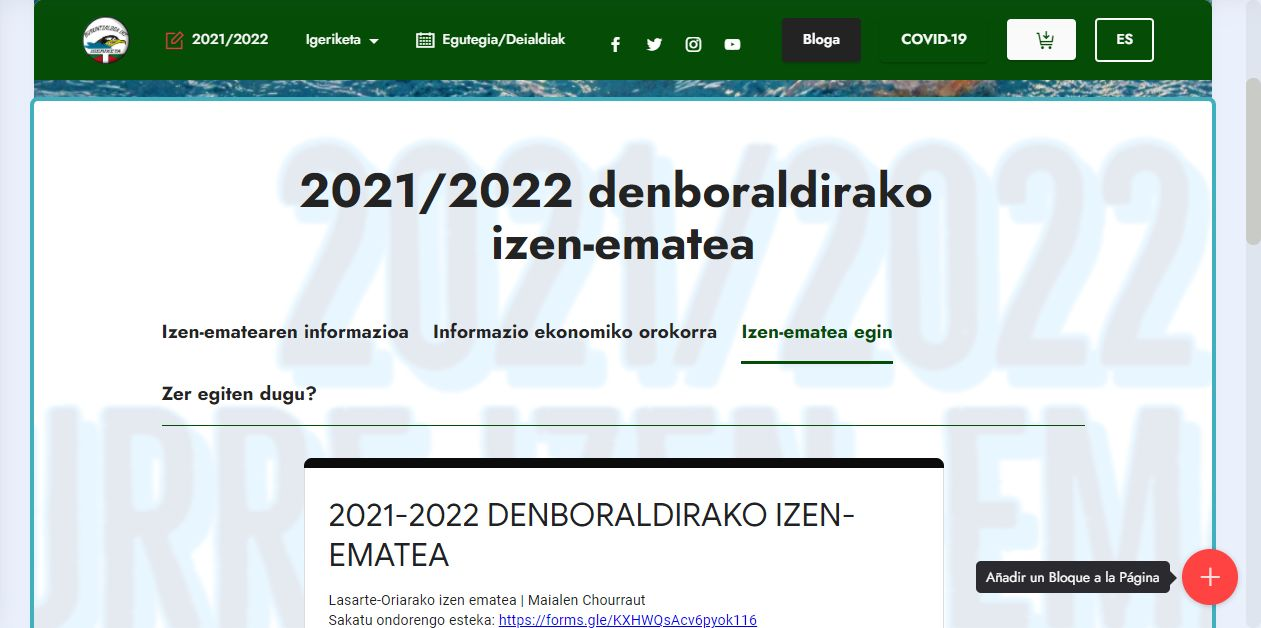
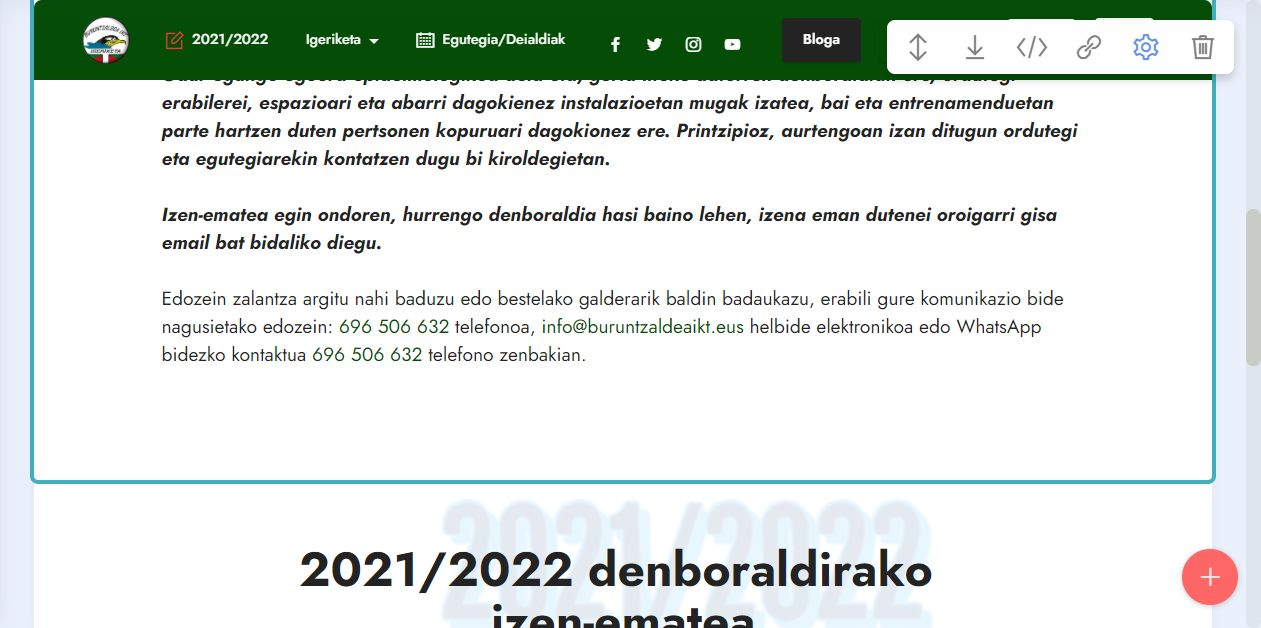
.

diff --git a/2122izenematea.html b/2122izenematea.html
@@ -113,26 +113,26 @@
     </div>
 </section>
 
-<section class="tabs content18 cid-svRpWT2be0" id="tabs1-9z">
+<section class="tabs content18 cid-sAoq0Eo2il" id="tabs1-aq">
 
     
 
-    <div class="mbr-overlay" style="opacity: 0.9; background-color: rgb(255, 255, 255);">
-    </div>
+    
     <div class="container-fluid">
         <div class="row justify-content-center">
             <div class="col-12 col-md-10">
-                <h3 class="mbr-section-title mb-0 mbr-fonts-style display-2"><strong>2021/2022 denboraldirako&nbsp;</strong><strong><br></strong><strong>izen-ematea</strong></h3>
+                <h3 class="mbr-section-title mb-0 mbr-fonts-style display-2"><strong>2021/2022 denboraldirako 
+</strong><div><strong>izen-ematea</strong></div></h3>
                 
             </div>
         </div>
         <div class="row justify-content-center mt-4">
             <div class="col-12 col-md-10">
                 <ul class="nav nav-tabs mb-4" role="tablist">
-                    <li class="nav-item first mbr-fonts-style"><a class="nav-link mbr-fonts-style show display-7" role="tab" data-toggle="tab" href="#tabs1-9z_tab0" aria-selected="false"><strong>Izen-ematearen informazioa</strong></a></li>
-                    <li class="nav-item"><a class="nav-link mbr-fonts-style active display-7" role="tab" data-toggle="tab" href="#tabs1-9z_tab1" aria-selected="true"><strong>Informazio ekonomiko orokorra</strong></a></li>
-                    <li class="nav-item"><a class="nav-link mbr-fonts-style active display-7" role="tab" data-toggle="tab" href="#tabs1-9z_tab2" aria-selected="true"><strong>Izen-ematea egin</strong></a></li>
-                    <li class="nav-item"><a class="nav-link mbr-fonts-style active display-7" role="tab" data-toggle="tab" href="#tabs1-9z_tab3" aria-selected="true"><strong>Zer egiten dugu?</strong></a></li>
+                    <li class="nav-item first mbr-fonts-style"><a class="nav-link mbr-fonts-style show display-7" role="tab" data-toggle="tab" href="#tabs1-aq_tab0" aria-selected="false"><strong>IZEN-EMATEA egin</strong></a></li>
+                    <li class="nav-item"><a class="nav-link mbr-fonts-style active display-7" role="tab" data-toggle="tab" href="#tabs1-aq_tab1" aria-selected="true"><strong>Izen-ematearen informazioa</strong></a></li>
+                    <li class="nav-item"><a class="nav-link mbr-fonts-style active display-7" role="tab" data-toggle="tab" href="#tabs1-aq_tab2" aria-selected="true"><strong>Informazio ekonomiko orokorra</strong></a></li>
+                    <li class="nav-item"><a class="nav-link mbr-fonts-style active display-7" role="tab" data-toggle="tab" href="#tabs1-aq_tab3" aria-selected="true"><strong>Zeregiten dugu?</strong></a></li>
                     
                     
                 </ul>
@@ -140,41 +140,66 @@
                     <div id="tab1" class="tab-pane in active" role="tabpanel">
                         <div class="row">
                             <div class="col-md-12">
-                                <p class="mbr-text mbr-fonts-style display-7">Datorren denboraldian, taldean hasi daitezkeen haur gazteenak honakoak dira: 2014an eta lehenago jaioak Lasarte-Orian eta 2013an eta lehenago jaioak Andoainen. Denboraldi berria 2021eko irailean 13ko astean hasiko da, nor bere ordu eta egunetan.<strong><em><br></em></strong><br><strong><em>Gaur egungo egoera epidemiologikoa dela eta, gerta liteke datorren denboraldian ere, ordutegi-erabilerei, espazioari eta abarri dagokienez&nbsp;</em></strong><em><strong>instalazioetan&nbsp;</strong></em><strong><em>mugak izatea, bai eta entrenamenduetan parte hartzen duten pertsonen kopuruari dagokionez ere. Printzipioz, aurtengoan izan ditugun ordutegi eta egutegiarekin kontatzen dugu bi kiroldegietan.</em></strong><br><br><strong><em>Izen-ematea egin ondoren, hurrengo denboraldia hasi baino lehen, izena eman dutenei oroigarri gisa email bat bidaliko diegu.</em></strong><br><br>Edozein zalantza argitu nahi baduzu edo bestelako galderarik baldin badaukazu, erabili gure komunikazio bide nagusietako edozein: <a href="tel:+34-696506632" class="text-primary">696 506 632</a> telefonoa, <a href="mailto:info@buruntzaldeaikt.eus" class="text-primary">info@buruntzaldeaikt.eus</a> helbide elektronikoa edo WhatsApp bidezko kontaktua <a href="https://wa.me/34696506632" class="text-primary">696 506 632</a> telefono zenbakian.<br><br><br></p>
+                                <p class="mbr-text mbr-fonts-style display-7"><strong>Lasarte-Oriarako izen ematea | Maialen Chourraut
+</strong><br>Sakatu ondorengo esteka: <a href="https://forms.gle/KXHWQsAcv6pyok116" class="text-primary" target="_blank">https://forms.gle/KXHWQsAcv6pyok116</a>
+<br>
+<br><strong>Parte-hartze igeriketarako izen ematea, "Estiloak" | Maialen Chourraut (Lasarte-Oria)
+</strong><br>Sakatu ondorengo esteka: <a href="https://forms.gle/qwbutSXLgdNTdrYf9" class="text-primary" target="_blank">https://forms.gle/qwbutSXLgdNTdrYf9</a>
+<br>
+<br>~ ~ ~ ~
+<br>
+<br><strong>Andoainerako izen ematea | Allurralde
+</strong><br>Sakatu ondorengo esteka: <a href="https://forms.gle/k5at7aqGJqVRqGP28" class="text-primary" target="_blank">https://forms.gle/k5at7aqGJqVRqGP28</a>
+<br>
+<br>~ ~ ~ ~
+<br>
+<br><strong>Baja ematea
+</strong><br>Sakatu ondorengo esteka: <a href="https://forms.gle/S8KmbWn8nedrxV3S7" class="text-primary" target="_blank">https://forms.gle/S8KmbWn8nedrxV3S7</a></p>
                             </div>
                         </div>
                     </div>
                     <div id="tab2" class="tab-pane" role="tabpanel">
                         <div class="row">
                             <div class="col-md-12">
-                                <p class="mbr-text mbr-fonts-style display-7">Urteko kuotaren inguruko informazio osoa izen emate inprimakian bertan dago eskuragarri.<br><br># Klubean dauden familiakide kopuruagatik hobariak daude.<br># DSBE laguntza jasotzeagatik hobariak daude.<br><br><br></p>
+                                <p class="mbr-text mbr-fonts-style display-7">Datorren denboraldian, taldean hasi daitezkeen haur gazteenak honakoak dira: 2014an eta lehenago jaioak Lasarte-Orian eta 2013an eta lehenago jaioak Andoainen. Denboraldi berria 2021eko irailean 13ko astean hasiko da, nor bere ordu eta egunetan.
+<br>
+<br><strong><em>Gaur egungo egoera epidemiologikoa dela eta, gerta liteke datorren denboraldian ere, ordutegi-erabilerei, espazioari eta abarri dagokienez instalazioetan mugak izatea, bai eta entrenamenduetan parte hartzen duten pertsonen kopuruari dagokionez ere. Printzipioz, aurtengoan izan ditugun ordutegi eta egutegiarekin kontatzen dugu bi kiroldegietan.
+<br>
+<br>Izen-ematea egin ondoren, hurrengo denboraldia hasi baino lehen, izena eman dutenei oroigarri gisa email bat bidaliko diegu.
+</em></strong><br>
+<br>Edozein zalantza argitu nahi baduzu edo bestelako galderarik baldin badaukazu, erabili gure komunikazio bide nagusietako edozein: <a href="tel:+34696506632" class="text-primary">696 506 632</a> telefonoa, <a href="mailto:info@buruntzaldeaikt.eus" class="text-primary">info@buruntzaldeaikt.eus</a> helbide elektronikoa edo WhatsApp bidezko kontaktua <a href="https://wa.me/34696506632" class="text-primary">696 506 632</a> telefono zenbakian.</p>
                             </div>
                         </div>
                     </div>
                     <div id="tab3" class="tab-pane" role="tabpanel">
                         <div class="row">
                             <div class="col-md-12">
-                                <p class="mbr-text mbr-fonts-style display-7">Aparteko lehio batean irekitzeko <a href="https://forms.gle/CXf1BCnDmxkQhWR86" class="text-primary" target="_blank"><strong><em>SAKATU HEMEN</em></strong></a><br><br><iframe src="https://docs.google.com/forms/d/e/1FAIpQLScF0MMsnh3yAYef6MOow1-UMuOLR96WJyzfkut_Het77w6UhQ/viewform?embedded=true" width="640" height="1247" frameborder="0" marginheight="0" marginwidth="0">Kargatzen…</iframe></p>
+                                <p class="mbr-text mbr-fonts-style display-7">Urteko kuotaren inguruko informazio osoa izen emate inprimakian bertan dago eskuragarri.
+<br>
+<br># Klubean dauden familiakide kopuruagatik hobariak daude.
+<br># DSBE laguntza jasotzeagatik hobariak daude.</p>
                             </div>
                         </div>
                     </div>
                     <div id="tab4" class="tab-pane" role="tabpanel">
                         <div class="row">
                             <div class="col-md-12">
-                                <p class="mbr-text mbr-fonts-style display-7"><strong>IGERIKETA ESKOLARRA ETA FEDERATUA
-</strong><br>Igeriketa Eskolar eta Federatua klubaren oinarria da eta bizitza osoko kirol ibilbide bat eskaintzen du, bai igeriketa arruntean bakarrik zein klubeko beste disziplinetara bidea zabalduz.
+                                <p class="mbr-text mbr-fonts-style display-7"><em><strong>IGERIKETA ESKOLARRA ETA FEDERATUA
+</strong></em><br>Igeriketa Eskolar eta Federatua klubaren oinarria da eta bizitza osoko kirol ibilbide bat eskaintzen du, bai igeriketa arruntean bakarrik zein klubeko beste disziplinetara bidea zabalduz.
 <br>
 <br>Igeriketa Eskolar zein Federatuan, haur eta gazteek igeriketaren oinarriak ikasi eta garatzen dituzte kirol honetan maisutza lortu arte, bakoitzari, bere neurrian, kirol ibilbidean aurrera egitea ahalbidetuz.
 <br>
 <br>Klubaren disziplinen barruan oinarria izanik, erabateko lehentasuna du lehen urteetan (aurrebenjamin eta benjaminetan), etorkizunera begira uretako edozein disziplinaren oinarria baita.
 <br>
-<br><strong>IGERIKETA EGOKITUA
-</strong><br>Igeriketa Egokituan, nolabaiteko muga funtzionala duten haur eta gazteei eskaintzen zaie igeriketa kirola. Muga hauek jatorri fisikoa zein intelektuala izan dezakete eta maila eta gradu desberdinetan eragin dezakete pertsona.
+<br><strong><em>IGERIKETA EGOKITUA
+</em></strong><br>Igeriketa Egokituan, nolabaiteko muga funtzionala duten haur eta gazteei eskaintzen zaie igeriketa kirola. Muga hauek jatorri fisikoa zein intelektuala izan dezakete eta maila eta gradu desberdinetan eragin dezakete pertsona.
 <br>
-<br>Igeriketa Egokituak, muga funtzionala duen haur edo gazteari kirolean parte hartzea baimentzen dio, gizarte eta kirol inklusioa helburu hartuz eta lehiaketako igeriketan kirol ibilbide oso bat eskainiz. <a href="egokitua.html" class="text-primary"><strong><em>&lt;&lt; Ezagutu Igeriketa Egokitua &gt;&gt;</em></strong></a><br><br><strong>PARTE-HARTZE IGERIKETA, "ESTILOAK"
-</strong><br>Astean behin edo bitan burutzen den jarduera honek igeriketa probatu nahi dutenei eta euren igeriketa ahalmenak hobetzea helburu duten haurrei aukera ematea du helburu.
+<br>Igeriketa Egokituak, muga funtzionala duen haur edo gazteari kirolean parte hartzea baimentzen dio, gizarte eta kirol inklusioa helburu hartuz eta lehiaketako igeriketan kirol ibilbide oso bat eskainiz. <a href="egokitua.html" class="text-primary"><strong><em>&lt;&lt; Ezagutu Igeriketa Egokitua &gt;&gt;</em></strong></a>
 <br>
-<br>Saioetan zehar haurrei igeriketako oinarrizko ahalmenak zein igeriketako estilo desberdinetan hastapena eta garapena eskaintzen zaie, aldi berean, partehartze igeriketa bat ahalbidetuz.<strong><em><a href="egokitua.html" class="text-primary"><br></a></em></strong><br><br></p>
+<br><strong><em>PARTE-HARTZE IGERIKETA, "ESTILOAK"
+</em></strong><br>Astean behin edo bitan burutzen den jarduera honek igeriketa probatu nahi dutenei eta euren igeriketa ahalmenak hobetzea helburu duten haurrei aukera ematea du helburu.
+<br>
+<br>Saioetan zehar haurrei igeriketako oinarrizko ahalmenak zein igeriketako estilo desberdinetan hastapena eta garapena eskaintzen zaie, aldi berean, partehartze igeriketa bat ahalbidetuz.</p>
                             </div>
                         </div>
                     </div>

diff --git a/bolondresak.html b/bolondresak.html
@@ -103,16 +103,16 @@
         <div class="row justify-content-center">
             <div class="col-12 col-md-10">
                 
-                <div id="bootstrap-accordion_94" class="panel-group accordionStyles accordion" role="tablist" aria-multiselectable="true">
+                <div id="bootstrap-accordion_95" class="panel-group accordionStyles accordion" role="tablist" aria-multiselectable="true">
                     <div class="card mb-3">
                         <div class="card-header" role="tab" id="headingOne">
-                            <a role="button" class="panel-title collapsed" data-toggle="collapse" data-core="" href="#collapse1_94" aria-expanded="false" aria-controls="collapse1">
+                            <a role="button" class="panel-title collapsed" data-toggle="collapse" data-core="" href="#collapse1_95" aria-expanded="false" aria-controls="collapse1">
                                 <h6 class="panel-title-edit mbr-fonts-style mb-0 display-7"><strong>2020/2021 denboraldia:&nbsp;</strong>
                                 </h6>
                                 <span class="sign mbr-iconfont mbri-arrow-down"></span>
                             </a>
                         </div>
-                        <div id="collapse1_94" class="panel-collapse noScroll collapse" role="tabpanel" aria-labelledby="headingOne" data-parent="#bootstrap-accordion_94">
+                        <div id="collapse1_95" class="panel-collapse noScroll collapse" role="tabpanel" aria-labelledby="headingOne" data-parent="#bootstrap-accordion_95">
                             <div class="panel-body">
                                 <p class="mbr-fonts-style panel-text display-7">1.- <a href="https://forms.gle/3Yzn75CQoVCNFNbJ7" class="text-primary" target="_blank">Distantzia Luzeko Absolutu mailako Euskal Herriko Txapelketa -2020/12/12- Maialen Chourraut, Lasarte-Oria</a><br>2.- <a href="https://forms.gle/TM37pn7T9p8ArJ86A" class="text-primary" target="_blank">Kontrol Lehiaketako 5. jardunaldia -2021/03/27- Allurralde, Andoain</a></p>
                             </div>
@@ -147,12 +147,12 @@
                     <div id="bootstrap-toggle" class="toggle-panel accordionStyles tab-content">
                         <div class="card mb-3">
                             <div class="card-header" role="tab" id="headingOne">
-                                <a role="button" class="collapsed panel-title text-black" data-toggle="collapse" data-core="" href="#collapse1_95" aria-expanded="false" aria-controls="collapse1">
+                                <a role="button" class="collapsed panel-title text-black" data-toggle="collapse" data-core="" href="#collapse1_96" aria-expanded="false" aria-controls="collapse1">
                                     <h6 class="panel-title-edit mbr-fonts-style mb-0 display-7"><strong>Gizarte ikuspegia</strong>&nbsp; &nbsp; &nbsp; &nbsp; &nbsp; &nbsp; &nbsp; &nbsp; &nbsp; &nbsp; &nbsp; &nbsp; &nbsp; &nbsp; &nbsp; &nbsp; &nbsp;</h6>
                                     <span class="sign mbr-iconfont mbri-arrow-down"></span>
                                 </a>
                             </div>
-                            <div id="collapse1_95" class="panel-collapse noScroll collapse" role="tabpanel" aria-labelledby="headingOne">
+                            <div id="collapse1_96" class="panel-collapse noScroll collapse" role="tabpanel" aria-labelledby="headingOne">
                                 <div class="panel-body">
                                     <p class="mbr-fonts-style panel-text display-7">i. Gure herrietan (Lasarten eta Andoainen) antolatzen ditugun lehiaketek gure igerilari, entrenatzaile eta laguntzaile bolondresei desplazamendu handirik egin behar ez izatea suposatzen die, gehienak bertako herritarrak izanik, igerilekura oinez joan daitezkeelako eta txapelketaren amaieran gainera, berriro ere kalean lehenago egoteko aukera ematen die.
 <br>
@@ -170,13 +170,13 @@
                         </div>
                         <div class="card mb-3">
                             <div class="card-header" role="tab" id="headingTwo">
-                                <a role="button" class="collapsed panel-title text-black" data-toggle="collapse" data-core="" href="#collapse2_95" aria-expanded="false" aria-controls="collapse2">
+                                <a role="button" class="collapsed panel-title text-black" data-toggle="collapse" data-core="" href="#collapse2_96" aria-expanded="false" aria-controls="collapse2">
                                     <h6 class="panel-title-edit mbr-fonts-style mb-0 display-7"><strong>Ikuspegi ekonomikoa</strong>&nbsp; &nbsp; &nbsp; &nbsp; &nbsp; &nbsp; &nbsp; &nbsp; &nbsp; &nbsp; &nbsp; &nbsp; &nbsp; &nbsp; &nbsp; &nbsp; &nbsp;</h6>
                                     <span class="sign mbr-iconfont mbri-arrow-down"></span>
                                 </a>
 
                             </div>
-                            <div id="collapse2_95" class="panel-collapse noScroll collapse" role="tabpanel" aria-labelledby="headingTwo">
+                            <div id="collapse2_96" class="panel-collapse noScroll collapse" role="tabpanel" aria-labelledby="headingTwo">
                                 <div class="panel-body">
                                     <p class="mbr-fonts-style panel-text display-7">Arlo ekonomikoan, txapelketen antolaketagatik klubarentzat diru laguntza lortzen da.
 <br>
@@ -191,13 +191,13 @@
                         </div>
                         <div class="card mb-3">
                             <div class="card-header" role="tab" id="headingThree">
-                                <a role="button" class="collapsed panel-title text-black" data-toggle="collapse" data-core="" href="#collapse3_95" aria-expanded="false" aria-controls="collapse3">
+                                <a role="button" class="collapsed panel-title text-black" data-toggle="collapse" data-core="" href="#collapse3_96" aria-expanded="false" aria-controls="collapse3">
                                     <h6 class="panel-title-edit mbr-fonts-style mb-0 display-7"><strong>Elkartasun ikuspegia</strong>
                                 </h6>
                                     <span class="sign mbr-iconfont mbri-arrow-down"></span>
                                 </a>
                             </div>
-                            <div id="collapse3_95" class="panel-collapse noScroll collapse" role="tabpanel" aria-labelledby="headingThree">
+                            <div id="collapse3_96" class="panel-collapse noScroll collapse" role="tabpanel" aria-labelledby="headingThree">
                                 <div class="panel-body">
                                     <p class="mbr-fonts-style panel-text display-7">Arlo orokorrago bat da hau, baina oso garrantzitsua. Izan ere, guk txapelketarik antolatuko ez bagenu, guk egiten ez ditugun hauek, jada beste batzuk antolatzeaz arduratzen diren taldeen gain jarriko genituzke, modu horretan talde hauei gainkarga bat jarriz eta, muturrean, lehiaketa hauek aurrera eramateko inor prest ez egotea gertatuz.</p>
                                 </div>

diff --git a/assets/mobirise/css/mbr-additional.css b/assets/mobirise/css/mbr-additional.css
@@ -12704,54 +12704,52 @@ a {
     text-align: center;
   }
 }
-.cid-svRpWT2be0 {
-  padding-top: 4rem;
-  padding-bottom: 0rem;
-  background-image: url("../../../assets/images/eus-eskolarrak-2000x1414.png");
+.cid-sAoq0Eo2il {
+  padding-top: 6rem;
+  padding-bottom: 6rem;
+  text-align: justify;
+  background-color: #ffffff;
 }
-.cid-svRpWT2be0 .nav-tabs .nav-item.open .nav-link:focus,
-.cid-svRpWT2be0 .nav-tabs .nav-link.active:focus {
+.cid-sAoq0Eo2il .nav-tabs .nav-item.open .nav-link:focus,
+.cid-sAoq0Eo2il .nav-tabs .nav-link.active:focus {
   outline: none;
 }
-.cid-svRpWT2be0 .nav-tabs {
+.cid-sAoq0Eo2il .nav-tabs {
   flex-wrap: wrap;
   border-bottom: 1px solid #054d07;
 }
 @media (max-width: 767px) {
-  .cid-svRpWT2be0 .nav-item {
+  .cid-sAoq0Eo2il .nav-item {
     width: 100%;
     margin: 0;
   }
 }
-.cid-svRpWT2be0 .nav-tabs .nav-link {
+.cid-sAoq0Eo2il .nav-tabs .nav-link {
   transition: all .5s;
   border: none;
   border-bottom: 3px solid transparent;
   border-radius: 0 !important;
 }
-.cid-svRpWT2be0 .nav-tabs .nav-link:not(.active) {
-  color: #232323;
+.cid-sAoq0Eo2il .nav-tabs .nav-link:not(.active) {
+  color: #000000;
 }
-.cid-svRpWT2be0 .nav-tabs .nav-item {
+.cid-sAoq0Eo2il .nav-tabs .nav-item {
   margin-right: 1.5rem;
 }
-.cid-svRpWT2be0 .nav-link,
-.cid-svRpWT2be0 .nav-link.active {
+.cid-sAoq0Eo2il .nav-link,
+.cid-sAoq0Eo2il .nav-link.active {
   padding: 1rem 0;
   background-color: transparent;
 }
-.cid-svRpWT2be0 .nav-tabs .nav-link.active {
+.cid-sAoq0Eo2il .nav-tabs .nav-link.active {
   color: #054d07;
   border-bottom: 3px solid #054d07;
 }
-.cid-svRpWT2be0 H4 {
+.cid-sAoq0Eo2il H4 {
   text-align: center;
 }
-.cid-svRpWT2be0 H3 {
+.cid-sAoq0Eo2il H3 {
   text-align: center;
-}
-.cid-svRpWT2be0 p {
-  text-align: justify;
 }
 .cid-svRoNoa6eH {
   padding-top: 1rem;

diff --git a/index.html b/index.html
@@ -107,13 +107,13 @@
                 <h1 class="mbr-section-title mbr-fonts-style mb-3 display-1"><strong>BURUNTZALDEA Igeriketa Kirol Taldea</strong></h1>
                 
                 <p class="mbr-text mbr-fonts-style display-1">2020/2021</p>
-                <div class="mbr-section-btn mt-3"><a class="btn btn-black display-5" href="2122aurreizenematea.html"><span class="mobi-mbri mobi-mbri-edit mbr-iconfont mbr-iconfont-btn" style="color: rgb(255, 255, 255);"></span>2021/2022 IZEN-EMATEA</a></div>
+                <div class="mbr-section-btn mt-3"><a class="btn btn-black display-5" href="2122izenematea.html"><span class="mobi-mbri mobi-mbri-edit mbr-iconfont mbr-iconfont-btn" style="color: rgb(255, 255, 255);"></span>2021/2022 IZEN-EMATEA</a></div>
             </div>
         </div>
     </div>
 </section>
 
-<section class="mbr-section" id="witsec-modal-window-block-a0" data-rv-view="4067">
+<section class="mbr-section" id="witsec-modal-window-block-a0" data-rv-view="8596">
 
 	<style>
 	/* Let's not animate the contents of modal windows */

diff --git a/egutegia-deialdiak.html b/egutegia-deialdiak.html
@@ -915,7 +915,7 @@
     </div>
 </section>
 
-<section class="mbr-section" id="witsec-modal-window-block-91" data-rv-view="4238">
+<section class="mbr-section" id="witsec-modal-window-block-91" data-rv-view="8767">
 
 	<style>
 	/* Let's not animate the contents of modal windows */
@@ -1711,7 +1711,7 @@
     </div>
 </section>
 
-<section class="mbr-section" id="witsec-modal-window-block-59" data-rv-view="4281">
+<section class="mbr-section" id="witsec-modal-window-block-59" data-rv-view="8810">
 
 	<style>
 	/* Let's not animate the contents of modal windows */
